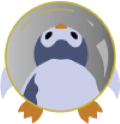
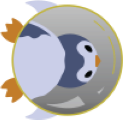
movement

diff --git a/scripts/main.js b/scripts/main.js
@@ -13,7 +13,7 @@ const penguinPlanetRadius = 110;
 const planets = [
   { x: 200, y: 200, isMoving: false, radius: 70 },
   { x: 600, y: 400, isMoving: false, radius: 80 },
-  { x: 1000, y: 300, isMoving: false, radius: 110 },
+  { x: 1300, y: 500, isMoving: false, radius: 110 },
 ];
 
 let circleX = canvas.width / 2;
@@ -55,6 +55,7 @@ penguinImage.src = "./elements/penguin.png";
 
 let player = new Image();
 player = turtleImage;
+let playerAngle = 0;
 
 ///////////////////////////////////////////////////////////////////////
 
@@ -88,7 +89,6 @@ function mousemove(e) {
   mouse.x = e.clientX || e.pageX;
   mouse.y = e.clientY || e.pageY;
 
-  stars.push(new Star());
   stars.push(new Star());
   stars.push(new Star());
 }
@@ -203,13 +203,19 @@ function drawBackground() {
 }
 
 function drawCircle() {
+  ctx.save();
+  ctx.translate(circleX, circleY);
+  ctx.rotate(playerAngle);
+
   ctx.drawImage(
     player,
-    circleX - circleRadius,
-    circleY - circleRadius,
+    -circleRadius,
+    -circleRadius,
     circleRadius * 2,
     circleRadius * 2
   );
+
+  ctx.restore();
 }
 
 function updateCirclePosition(event) {
@@ -218,14 +224,11 @@ function updateCirclePosition(event) {
     let newX = event.clientX - rect.left;
     let newY = event.clientY - rect.top;
 
-    newX = Math.max(
-      gameArea.left + circleRadius,
-      Math.min(gameArea.right - circleRadius, newX)
-    );
-    newY = Math.max(
-      gameArea.top + circleRadius,
-      Math.min(gameArea.bottom - circleRadius, newY)
-    );
+    // Calculate the angle based on the mouse movement
+    const deltaX = newX - circleX;
+    const deltaY = newY - circleY;
+    playerAngle = Math.atan2(deltaY, deltaX);
+
     circleX = newX;
     circleY = newY;
   }
